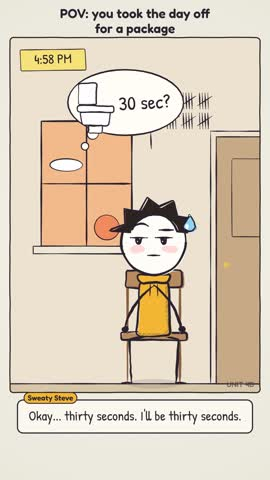
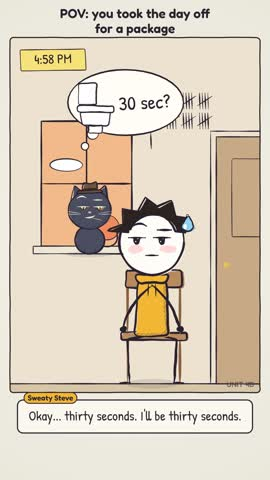
Ep 10 v7: no static stretches, cat watches from the start, louder first second; tools/qa_video.py
Fixes from the second review: the 9-to-5 phone becomes an inset in Steve's
hand followed by a knuckle crack and a lean-back; eyes flick and legs bounce
under the '30 sec?' bubble; the cat sits on the sill from the first room shot
(not in the truck shot, so GARBAGE stays readable); the ending gets a sigh and
a yawn and is 4.6 s; the last phone screens buzz, slide and pop; a wall clock
and paper rustle open the video.

tools/qa_video.py automates the measurable QA items (duration, punch position,
static stretches with the line boil blurred out, first-second level, loudness).
v7 passes all of them.

Changed region(s): [[0.237, 0.375, 0.7407, 0.8125]]

diff --git a/episodes/10-we-missed-you/film/scene.js b/episodes/10-we-missed-you/film/scene.js
@@ -1,4 +1,4 @@
-// UNIT 4B · 10 "We Missed You" (Tập 1) v6 — 9:16 film page (lemo-opuscar contract: READY, DUR, render(t), EV, TEXTS).
+// UNIT 4B · 10 "We Missed You" (Tập 1) v7 — 9:16 film page (lemo-opuscar contract: READY, DUR, render(t), EV, TEXTS).
 // Show, don't say — but keep the lines that add attitude, irony or inner logic the picture can't (Steve's muttering).
 import { drawCharacter, nameTab, paper, panel } from './lib/cast_stick.js';
 import { VPen, roundPoly, ellipsePts } from './lib/cast_v2.js';
@@ -20,14 +20,14 @@ const LINES = [
   ['10_08_steve', 'steve', 32.4, "...I'll just take another day off."],
   ['10_09_snuggles', 'snuggles', 35.4, 'Same chair. Same door. Tomorrow.'],
 ].map(([id, char, t, text]) => ({ id, char, t, text }));
-const DUR = 40.0;
+const DUR = 39.8;
 const TITLE = ['POV: you took the day off', 'for a package'];   // on-screen hook, the whole video
-const T = { cold: 1.8, app1: 4.0, nod: 5.3, app2: 9.3, sitUp: 10.3, map: 12.6, truck: 13.8, three: 17.6, light0: 19.6, late: 20.8, map2: 21.6, map2e: 22.6, look: 23.0, bubble: 23.4, run: 26.4, wc: 27.0, flush: 27.8, note: 28.6, melt: 29.6, app3: 32.2, dayoff: 33.2, back: 35.2 };
+const T = { cold: 1.8, app1: 4.4, pocket: 5.6, lean: 6.5, app2: 9.3, sitUp: 10.3, map: 12.6, truck: 13.8, three: 17.6, light0: 19.6, late: 20.8, map2: 21.6, map2e: 22.6, look: 23.0, bubble: 23.4, run: 26.4, wc: 27.0, flush: 27.8, note: 28.6, melt: 29.6, app3: 32.2, dayoff: 33.2, back: 35.2 };
 let VOICE = {};
 
 const EV = [
   ...LINES.map(L => ({ t: L.t, type: 'voice', id: L.id })),
-  { t: 0.0, type: 'cold' }, { t: T.cold, type: 'wait' }, { t: T.app2, type: 'buzz' }, { t: T.sitUp + 0.2, type: 'ding' },
+  { t: 0.0, type: 'cold' }, { t: 0.0, type: 'tick' }, { t: 0.05, type: 'paper' }, { t: T.cold, type: 'wait' }, { t: T.pocket + 0.3, type: 'crack' }, { t: T.app2, type: 'buzz' }, { t: T.sitUp + 0.2, type: 'ding' },
   { t: T.truck + 0.1, type: 'truck' }, { t: T.truck + 0.3, type: 'chair' }, { t: T.light0, type: 'violin' }, { t: T.late, type: 'wait2' },
   { t: T.bubble, type: 'pop' }, { t: T.run, type: 'steps' }, { t: T.wc + 0.1, type: 'door' }, { t: T.flush, type: 'flush' },
   { t: T.note, type: 'stop' }, { t: T.app3, type: 'buzz' }, { t: T.dayoff + 0.7, type: 'whoosh' }, { t: T.back + 0.2, type: 'wait3' },
@@ -153,6 +153,7 @@ function thoughtBubble(t, x, y) {   // "30 sec?" next to a toilet
 }
 
 // ---------- shots ----------
+function cat(t, pose = {}) { actor('snuggles', 245, t, { expr: 'side_eye', look: 0.8, ...pose }, { y: WIN.y1 + 26, scale: 4.2 }); }   // the narrator, watching from the sill
 function shotCold(t) {   // cold open: the ending first — the note, and his face
   room(t, { light: 'eve', tally: 41 });
   noteOnDoor(t);
@@ -164,8 +165,22 @@ function dreamFrame() {   // soft cloud edge so the cutaway reads as "inside his
   for (let y = PY; y <= PY + PH; y += 70) for (const x of [PX, PX + PW]) { ctx.beginPath(); ctx.arc(x, y, 62, 0, Math.PI * 2); ctx.fill(); }
   ctx.restore();
 }
-function shotMorning(t) { room(t); timeTag('9:00 AM', t); hand('earlier that day', 212, 320, 44, -0.03, '#6b625c'); steveInChair(t, { expr: 'neutral' }); }
-function shotNod(t) { room(t); steveInChair(t, { expr: 'smug', look: 0.6 }, { y: FLOOR + (Math.floor(t * 6) % 2 ? 0 : 8) }); }   // small confident nods
+function shotMorning(t) { room(t); timeTag('9:00 AM', t); hand('earlier that day', 212, 320, 44, -0.03, '#6b625c'); cat(t); steveInChair(t, { expr: 'neutral' }); }
+function phoneInset(t, lines) {   // the phone in his hand, blown up beside him like a comic inset
+  const x0 = 690, y0 = 560, p = pen(0, 0, 1, t, 77); p.T = q => q;
+  p.line([[x0 - 20, y0 + 300], [CHAIR_X + 40, 980]], 3, 'rgba(42,34,48,0.5)');
+  p.part(roundPoly([[x0 - 140, y0], [x0 + 140, y0], [x0 + 140, y0 + 330], [x0 - 140, y0 + 330]], 26), '#2f2b36', { shade: false });
+  p.part(roundPoly([[x0 - 122, y0 + 24], [x0 + 122, y0 + 24], [x0 + 122, y0 + 306], [x0 - 122, y0 + 306]], 16), '#fbfaf6', { shade: false, lw: 3 });
+  ctx.save(); ctx.textAlign = 'center';
+  lines.forEach(([txt, size, col], i) => { ctx.font = `600 ${size}px Fredoka`; ctx.fillStyle = col || INK; ctx.fillText(txt, x0, y0 + 100 + i * 80); });
+  ctx.restore();
+}
+function shotConfident(t) {   // phone in hand → phone on the knee, knuckle crack → leans back, hands behind his head
+  room(t);
+  if (t < T.pocket) { steveInChair(t, { expr: 'neutral', look: 0.9, armR: 'hold' }); phoneInset(t, [['Your delivery', 30], ['TODAY', 50, '#2e8b57'], ['9 AM – 5 PM', 34]]); }
+  else if (t < T.lean) { const crack = Math.floor(t * 8) % 2 ? 'hold' : 'shrug'; steveInChair(t, { expr: 'smug', look: 0.4, armL: crack, armR: crack }); }
+  else steveInChair(t, { expr: 'smug', look: 0.6, arm: 'up' }, { y: FLOOR + 10 + (Math.floor(t * 4) % 2 ? 0 : 6) });   // leaning back, nodding
+}
 function shotSitUp(t) { room(t); steveInChair(t, { expr: 'happy', fx: ['sparkle', 'blush'] }, { y: FLOOR - (t > T.sitUp + 0.2 ? 20 : 0) }); }
 function shotMap(t) { phoneMap(t); timeTag('11:00 AM', t); }
 function garbageTruck(t, k) {
@@ -182,7 +197,7 @@ function shotTruck(t) {   // the one small peak: jumps up, checks the window, hi
   chair(CHAIR_X, t);
   const up = t > T.truck + 0.3 && t < T.truck + 3.2;
   garbageTruck(t, seg(t, T.truck + 0.5, T.truck + 3.0));
-  if (up) actor('steve', 470, t, t < T.truck + 1.4 ? { expr: 'grin', look: -0.9, arm: 'up' } : { expr: 'dead_inside', look: -0.6 });
+  if (up) actor('steve', 530, t, t < T.truck + 1.4 ? { expr: 'grin', look: -0.9, arm: 'up' } : { expr: 'dead_inside', look: -0.6 });
   else actor('steve', CHAIR_X, t, { sit: true, expr: t < T.truck + 0.2 ? 'neutral' : 'deadpan', look: 0.7 });
 }
 function stinkLines(x, y, t) {
@@ -190,7 +205,7 @@ function stinkLines(x, y, t) {
   for (const dx of [-60, 0, 60]) { const pts = []; for (let i = 0; i <= 8; i++) pts.push([x + dx + Math.sin(i * 1.3 + step8(t) * 3) * 10, FLOOR - (y - i * 12)]); p.line(pts, 3.5, '#8fae6a'); }
 }
 function shotAfternoon(t) {
-  room(t, { tally: TALLY(t) }); timeTag('3:00 PM', t);
+  room(t, { tally: TALLY(t) }); timeTag('3:00 PM', t); cat(t, { expr: 'deadpan' });
   steveInChair(t, { expr: 'dead_inside', armL: 'hold' });
   const p = pen(CHAIR_X + 3, FLOOR - (48 - 15) * K, K, t, 45);   // cracker box in his hand
   p.part(roundPoly([[-5, -4], [5, -4], [5, 7], [-5, 7]], 0.8), '#e7b85a', { shade: 0.15 });
@@ -213,9 +228,12 @@ function shotLate(t) {   // 4:58: squirming, checks the phone, glances at the ba
   room(t, { light: 'eve', tally: 41 });
   const run = t >= T.run, k = step8(seg(t, T.run, T.run + 0.5));
   if (run) { chair(CHAIR_X, t); actor('steve', CHAIR_X - 420 * k, t, { expr: 'nervous', look: -0.9, arm: 'up', fx: ['sweat'] }); return; }
+  cat(t, { expr: 'smug' });
   const nod = t > T.bubble + 1.6 && Math.floor(t * 6) % 2;
-  const pose = t < T.look ? { expr: 'nervous', look: 0.7, armR: 'hold', fx: ['sweat'] } : { expr: t < T.bubble + 1.6 ? 'skeptical' : 'grin', look: -0.9, fx: ['sweat'] };
-  steveInChair(t, pose, { x: CHAIR_X + jitter(t, t < T.look ? 6 : 0), y: FLOOR + (nod ? 8 : 0) });
+  const torn = t >= T.bubble && t < T.bubble + 1.6;   // eyes flick between the front door and the bathroom, legs bouncing
+  const look = torn ? (Math.floor(t * 2.5) % 2 ? 0.9 : -0.9) : t < T.look ? 0.7 : -0.9;
+  const pose = t < T.look ? { expr: 'nervous', look, armR: 'hold', fx: ['sweat'] } : { expr: t < T.bubble + 1.6 ? 'skeptical' : 'grin', look, fx: ['sweat'] };
+  steveInChair(t, pose, { x: CHAIR_X + jitter(t, t < T.look || torn ? 6 : 0), y: FLOOR + (nod ? 8 : torn && Math.floor(t * 8) % 2 ? 5 : 0) });
   if (t >= T.bubble) thoughtBubble(t, 300, 520);
 }
 function shotWC(t) {
@@ -232,6 +250,7 @@ function shotNote(t) {
   const melting = t >= T.melt && t < T.melt + 0.17;   // one-frame melt, then snaps back
   room(t, { light: 'eve', grey: t >= T.melt, tally: 41 });
   noteOnDoor(t);
+  cat(t, { expr: t < T.melt ? 'shocked' : 'deadpan' });
   ctx.save();
   if (melting) { ctx.translate(380, FLOOR); ctx.scale(1.12, 0.82); ctx.translate(-380, -FLOOR); }
   actor('steve', 380, t, { expr: t < T.melt ? 'shocked' : 'dead_inside', look: 0.8, ...(melting ? { eyes: 'spiral', mouth: 'wobble' } : {}) }, { frozen: t < T.melt });
@@ -239,12 +258,15 @@ function shotNote(t) {
 }
 function shotDayOff(t) {   // he files another day off: the form, then the tick
   const sent = t >= T.dayoff + 0.7;   // SENT stays on screen for 1.3 s
-  phone(t, [['Request day off', 58], ['TOMORROW', 76, '#3d5a96'], [sent ? 'SENT ✓' : 'Reason: personal', sent ? 84 : 52, sent ? '#2e8b57' : '#6b625c']]);
+  const pop = sent && t < T.dayoff + 0.95 ? 1.35 : 1;   // SENT pops in
+  phone(t, [['Request day off', 58], ['TOMORROW', 76, '#3d5a96'], [sent ? 'SENT ✓' : 'Reason: personal', sent ? Math.round(84 * pop) : 52, sent ? '#2e8b57' : '#6b625c']]);
+  if (sent) { const q = pen(540, 1330, 14, t, 79); for (const [dx, dy] of [[-15, 35], [15, 35], [-13, 46], [13, 46]]) q.dot(dx, dy, 0.8, 0.8, '#f2c14e'); }
 }
-function shotLoop(t) {
+function shotLoop(t) {   // next morning: he sighs, sits; the cat yawns
   room(t, { tally: 41 }); timeTag('9:00 AM', t);
-  steveInChair(t, { expr: 'dead_inside' });
-  actor('snuggles', 205, t, { expr: 'smug', look: 0.8 }, { y: WIN.y1 + 26, scale: 4.2 });
+  const sigh = t > T.back + 0.9 && t < T.back + 1.5, yawn = t > T.back + 2.6 && t < T.back + 3.4;
+  cat(t, yawn ? { expr: 'sleepy', mouth: 'O' } : { expr: 'smug' });
+  steveInChair(t, { expr: sigh ? 'sad' : 'dead_inside' }, { y: FLOOR + (sigh ? 12 : 0) });
 }
 
 // ---------- captions ----------
@@ -281,11 +303,10 @@ function render(t) {
   ctx.fillStyle = INK; ctx.textAlign = 'center';
   ctx.font = '600 52px Fredoka'; ctx.fillText(TITLE[0], 540, 72); ctx.fillText(TITLE[1], 540, 132);
   ctx.textAlign = 'start';
-  const wide = (fn, zoom = 1.3, fx = 600, fy = 1000, sx = 540, sy = 1000) => withCamera(zoom, fx, fy, fn, sx, sy);   // closer than v5: faces read on a phone
+  const wide = (fn, zoom = 1.3, fx = 545, fy = 1000, sx = 540, sy = 1000) => withCamera(zoom, fx, fy, fn, sx, sy);   // closer than v5: faces read on a phone
   if (t < T.cold) withCamera(1.6, 640, 900, () => shotCold(t), 540, 860);
   else if (t < T.app1) wide(() => shotMorning(t), 1.3 + 0.05 * seg(t, T.cold, T.app1));
-  else if (t < T.nod) withCamera(1, 540, 900, () => phone(t, [['Your delivery', 64], ['TODAY', 100, '#2e8b57'], ['9 AM – 5 PM', 80]]));
-  else if (t < T.app2) withCamera(1.6, CHAIR_X, 900, () => shotNod(t), 540, 860);
+  else if (t < T.app2) withCamera(1.35, CHAIR_X + 110, 900, () => shotConfident(t), 540, 860);
   else if (t < T.sitUp) withCamera(1, 540, 900, () => phone(t, [['Your package is', 60], ['OUT FOR', 96, '#2e8b57'], ['DELIVERY', 96, '#2e8b57']]));
   else if (t < T.map) withCamera(1.6, CHAIR_X, 900, () => shotSitUp(t), 540, 860);
   else if (t < T.truck) withCamera(1, 540, 900, () => shotMap(t));
@@ -296,9 +317,9 @@ function render(t) {
   else if (t < T.wc) { withCamera(1.25, CHAIR_X - 60, 860, () => shotLate(t), 540, 860); timeTag('4:58 PM', t); }
   else if (t < T.note) withCamera(1, 540, 900, () => shotWC(t));
   else if (t < T.app3) withCamera(1.3 + 0.15 * seg(t, T.note, T.melt), 540, 900, () => shotNote(t), 540, 900);
-  else if (t < T.dayoff) withCamera(1, 540, 900, () => phone(t, [['New delivery date:', 56], ['TOMORROW', 76, '#c0392b'], ['9 AM – 5 PM', 76]]));
-  else if (t < T.back) withCamera(1, 540, 900, () => shotDayOff(t));
-  else wide(() => shotLoop(t), 1.2 + 0.05 * seg(t, T.back, DUR), 520);
+  else if (t < T.dayoff) withCamera(1, 540, 900, () => phone(t, [['New delivery date:', 56], ['TOMORROW', 76, '#c0392b'], ['9 AM – 5 PM', 76]]), 540 + (t < T.app3 + 0.5 ? jitter(t, 12) : 0), 900);   // buzzes
+  else if (t < T.back) { const k = seg(t, T.dayoff, T.dayoff + 0.3); ctx.fillStyle = '#e9dcc3'; ctx.fillRect(PX, PY, PW, PH); withCamera(1, 540, 900, () => shotDayOff(t), 540 + 900 * (1 - k) * (1 - k), 900); }   // the next screen slides in
+  else wide(() => shotLoop(t), 1.2 + 0.18 * seg(t, T.back, DUR), 500);
   panel(ctx, PX, PY, PW, PH, 5, null, frameOf(t));
   ctx.font = '600 30px Fredoka'; ctx.fillStyle = 'rgba(42,34,48,0.55)'; ctx.textAlign = 'right'; ctx.fillText('UNIT 4B', PX + PW - 24, PY + PH - 22); ctx.textAlign = 'start';
   const cap = caption(t); window.__texts = cap ? [cap] : [];

diff --git a/tools/qa_video.py b/tools/qa_video.py
@@ -1,0 +1,65 @@
+"""Automatic part of the QA checklist (styles/deadpan-strip/QA.md) for a rendered short.
+
+    python tools/qa_video.py episodes/10-we-missed-you/film/out/Tap01-we-missed-you.mp4 [--punch 30.4]
+
+Reports:
+  - duration (target 25–40 s) and, with --punch, where the punchline falls (target 70–85 %)
+  - static stretches >= 3 s in the art area. Frames 1 s apart are compared after a 5x5 block blur, because the
+    hand-drawn line boil changes every frame and would otherwise count as motion.
+  - mean level of the first 1.8 s (a near-silent opening loses autoplay viewers; aim above about -30 dBFS)
+  - integrated loudness and true peak (target -14 LUFS, true peak <= -1.2 dB)
+Needs ffmpeg and numpy. Exit code 1 if a hard target fails.
+"""
+import argparse, json, subprocess, sys
+import numpy as np
+
+
+def run(cmd):
+    return subprocess.run(cmd, capture_output=True, check=True)
+
+
+def main():
+    ap = argparse.ArgumentParser(description=__doc__, formatter_class=argparse.RawDescriptionHelpFormatter)
+    ap.add_argument('video'); ap.add_argument('--punch', type=float, help='punchline time in seconds')
+    ap.add_argument('--still-threshold', type=float, default=2.0)
+    a = ap.parse_args()
+    fails = []
+
+    dur = float(json.loads(run(['ffprobe', '-v', 'error', '-show_entries', 'format=duration', '-of', 'json', a.video]).stdout)['format']['duration'])
+    print(f'duration      {dur:5.1f} s   (target 25–40)'); fails += ['duration'] if not 25 <= dur <= 40.5 else []
+    if a.punch:
+        pos = a.punch / dur * 100
+        print(f'punchline     {pos:5.1f} %   (target 70–85)'); fails += ['punch position'] if not 70 <= pos <= 85 else []
+
+    # static stretches: 4 fps grey 135x240, art area only (skip the title band and the caption band)
+    raw = run(['ffmpeg', '-v', 'error', '-i', a.video, '-vf', 'fps=4,scale=135:240,format=gray', '-f', 'rawvideo', '-']).stdout
+    f = np.frombuffer(raw, np.uint8).reshape(-1, 240, 135).astype(float)[:, 25:190, 5:130]
+    b = f[:, :165, :125].reshape(len(f), 33, 5, 25, 5).mean(axis=(2, 4))
+    still = np.abs(b[4:] - b[:-4]).mean(axis=(1, 2)) < a.still_threshold
+    runs, s = [], None
+    for i, v in enumerate(list(still) + [False]):
+        if v and s is None: s = i
+        if not v and s is not None:
+            if (i - s) / 4 + 1 >= 3: runs.append((s / 4, i / 4 + 1))
+            s = None
+    print('static >= 3 s', ', '.join(f'{x:.1f}–{y:.1f}' for x, y in runs) or 'none')
+    fails += ['static stretch'] if runs else []
+
+    # first 1.8 s level
+    pcm = np.frombuffer(run(['ffmpeg', '-v', 'error', '-i', a.video, '-t', '1.8', '-ac', '1', '-ar', '16000', '-f', 's16le', '-']).stdout, np.int16) / 32768
+    lvl = 20 * np.log10(np.sqrt(np.mean(pcm ** 2)) + 1e-9)
+    print(f'first 1.8 s   {lvl:5.1f} dBFS (aim above about -30)')
+
+    # loudness
+    out = subprocess.run(['ffmpeg', '-hide_banner', '-i', a.video, '-af', 'loudnorm=print_format=json', '-f', 'null', '-'], capture_output=True, text=True).stderr
+    j = json.loads(out[out.rindex('{'):out.rindex('}') + 1])
+    i_lufs, tp = float(j['input_i']), float(j['input_tp'])
+    print(f'loudness      {i_lufs:5.1f} LUFS, true peak {tp:.1f} dB (target -14 ±0.5, <= -1.2)')
+    fails += ['loudness'] if abs(i_lufs + 14) > 0.5 or tp > -1.2 else []
+
+    print('RESULT', 'PASS' if not fails else 'FAIL: ' + ', '.join(fails))
+    sys.exit(1 if fails else 0)
+
+
+if __name__ == '__main__':
+    main()

diff --git a/episodes/10-we-missed-you/film/mix.py b/episodes/10-we-missed-you/film/mix.py
@@ -74,6 +74,11 @@ for t in at('truck'): S.add(fol, S.rumble(3.0, 0.8), t, 0.5, -0.5); S.add(fol, S
 for t in at('chair'):
     d = 0.35; S.add(fol, S.bp(S.noise(d), 200, 1200) * S.env_exp(d, 0.1), t, 0.35)
     for j in range(4): S.add(fol, S.step(0.7), t + 0.25 + j * 0.13, 0.45, -0.3)
+for t in at('tick'):    # cold open: a wall clock, so the first second is not silent
+    for j in range(4): S.add(fol, S.click(1.8, 0.8), t + 0.12 + j * 0.5, 0.6, 0.3)
+for t in at('paper'): S.add(fol, S.lp(S.hp(S.noise(0.35), 1500), 6000) * S.env_exp(0.35, 0.09), t, 0.5, 0.3)
+for t in at('crack'):
+    for j in range(3): S.add(fol, S.click(0.7, 0.8), t + j * 0.09, 0.35)
 for t in at('ding'): S.add(fol, S.ding(0.6), t, 0.18, 0.2)
 for t in at('pop'): S.add(fol, S.pop(0.7), t, 0.35)
 for t in at('steps'):

diff --git a/episodes/10-we-missed-you/script.md b/episodes/10-we-missed-you/script.md
@@ -1,10 +1,10 @@
-# 10 · We Missed You  (channel: Tập 1, first upload) — v6
+# 10 · We Missed You  (channel: Tập 1, first upload) — v7
 
 | | |
 |---|---|
 | Format | everyday problem, real reactions, drama in the visuals and the narration; flat punchline; loop |
 | Cast | Steve (a normal tired adult) · Snuggles (noir voice-over, only the viewer hears him) |
-| Length | 40 s, 9:16 |
+| Length | 39.8 s, 9:16 |
 | Topic | You take the day off for a delivery, step away for thirty seconds, and get "Sorry we missed you". Evergreen. |
 | Score | 36/40 (weakest: surprise 4) |
 | Loop | yes |
@@ -25,9 +25,9 @@ On-screen title for the whole video: "POV: you took the day off / for a package"
 | Time | Picture | Face | Line |
 |---|---|---|---|
 | 0:00 | **Cold open:** close on Steve beside the door, "SORRY WE MISSED YOU!", tally marks behind him. | dead_inside | — (one low pluck) |
-| 0:02 | "9:00 AM · earlier that day". Steve in the chair facing the door. | neutral | Narrator: "Nine a.m. The human has taken a day off... to wait for a package." |
-| 0:04 | Phone: "Your delivery TODAY, 9 AM – 5 PM". | — | — |
-| 0:05 | Close: small confident nods. | smug | Steve: "Okay. Nine to five. Easy." |
+| 0:02 | "9:00 AM · earlier that day". Steve in the chair facing the door; the cat watches from the sill (all room shots except the truck). | neutral | Narrator: "Nine a.m. The human has taken a day off... to wait for a package." |
+| 0:04 | Close: phone in his hand, blown up beside him: "Your delivery TODAY, 9 AM – 5 PM". | neutral | (narration continues) |
+| 0:06 | Phone on the knee, knuckle crack (sfx), leans back, hands behind his head, nodding. | smug | Steve: "Okay. Nine to five. Easy." |
 | 0:09 | Phone: "OUT FOR DELIVERY" (buzz). | — | — |
 | 0:10 | Close: he sits up, sparkle. | happy | Steve: "Oh, nice. He's close." |
 | 0:12 | Phone map: "Stop 14 of 87", "11:00 AM". | — | — |
@@ -37,7 +37,7 @@ On-screen title for the whole video: "POV: you took the day off / for a package"
 | 0:21 | "4:58 PM": squirming; phone "refreshed 41 times today"; glance to the bathroom; bubble "30 sec?"; nods; runs. | nervous → skeptical → grin | Steve: "Okay... thirty seconds. I'll be thirty seconds." |
 | 0:27 | WC door, "0:30", flush. | — | — |
 | 0:28 | **Punch:** the note; music stops; beat; one-frame melt; greyscale. | shocked → dead_inside | Steve: "...cool." |
-| 0:32 | Phone: "New delivery date: TOMORROW", then "Request day off — TOMORROW — SENT ✓". | — | Steve: "...I'll just take another day off." |
-| 0:35 | Back in the chair, "9:00 AM", the cat on the sill. | dead_inside | Narrator: "Same chair. Same door. Tomorrow." |
+| 0:32 | Phone buzzes: "New delivery date: TOMORROW"; the day-off request slides in, "SENT ✓" pops. | — | Steve: "...I'll just take another day off." |
+| 0:35 | Back in the chair, "9:00 AM": he sighs, the cat yawns, the camera pushes in. | dead_inside | Narrator: "Same chair. Same door. Tomorrow." |
 
 Punch at 0:30.4 / 40 s = 76 %. Button 3.9 s.

diff --git a/styles/deadpan-strip/QA.md b/styles/deadpan-strip/QA.md
@@ -21,6 +21,10 @@ not to the other end, and say which notch you chose.
 
 ## 2. QA checklist (run on every short)
 
+The measurable items are automated: `python tools/qa_video.py <video.mp4> --punch <seconds>` checks duration,
+punchline position, static stretches (with the line boil blurred out), the level of the first 1.8 s and loudness,
+and exits non-zero on a failure. Run it, then do the rest by eye on a contact sheet every 2 s.
+
 ### Before writing
 - [ ] The problem is something most adults have lived. Write it in one line without any character names.
 - [ ] The joke works for a first-time viewer who knows nothing about the cast.
@@ -57,6 +61,9 @@ not to the other end, and say which notch you chose.
 - [ ] Commit, push, update the episode page on Notion (see memory: sync rule).
 
 ## 3. Tooling notes learned on the way
+- Measuring "static" on raw frames is wrong for this style: the hand-drawn boil changes every frame. Blur (5×5 blocks) and compare frames 1 s apart (`tools/qa_video.py` does this).
+- A slide transition must paint the panel background first, or the paper shows through behind the moving screen.
+- Props drawn in front of a window (the cat) can hide the joke behind the window (the GARBAGE sign): check what the key shot must show and clear it.
 - `mux.sh` loudnorm raises gain; a mix with long silences has a high crest factor and will clip after normalization. Pre-master in `mix.py`.
 - `sfx.brown(d)` can return one sample more than the buffer; slice to `len(buf)`.
 - Seated stick figures: `pose.sit` lowers the body; the floor is at local `+pen.sit`.
